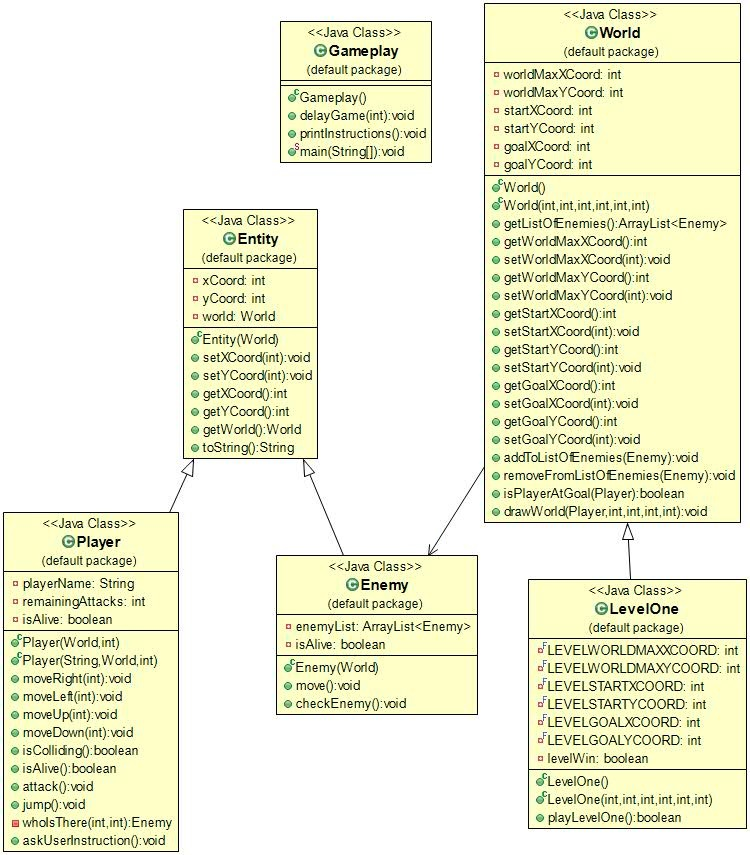
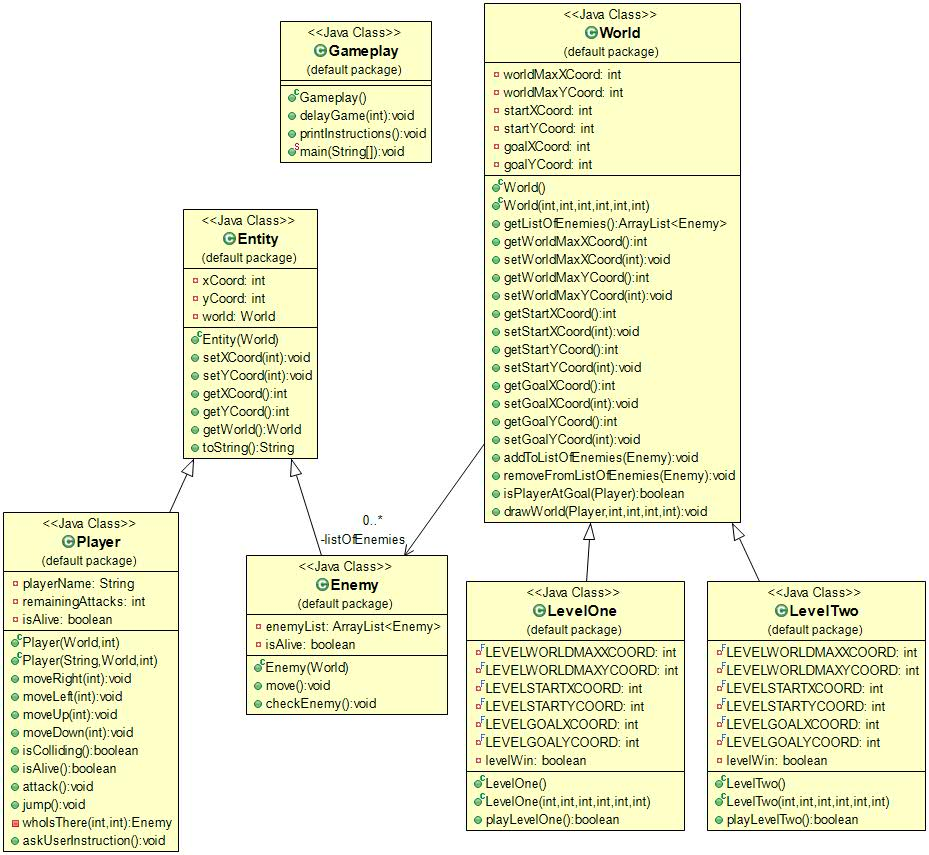
Added LevelTwo
- Added level two which is the next level of the game. It's pretty much levelOne except in a smaller sized world (with the same amount of enemies though), making it harder

diff --git a/src/LevelTwo.java b/src/LevelTwo.java
@@ -1,0 +1,81 @@
+/**
+ * Level Two of our classic platformer game.
+ * 
+ * This class contains the code needed to generate the second level.
+ * This includes level size as well as player and enemy generation.
+ * The play method allows the player to interact with the world.
+ * 
+ * The level is smaller (size) than level one but the same amount of enemies, 
+ * making it harder. 
+ * 
+ */
+
+public class LevelTwo extends World {
+
+	private final int LEVELWORLDMAXXCOORD = 10;
+	private final int LEVELWORLDMAXYCOORD = 1;
+
+	private final int LEVELSTARTXCOORD = 2;
+	private final int LEVELSTARTYCOORD = 0;
+
+	private final int LEVELGOALXCOORD = 8;
+	private final int LEVELGOALYCOORD = 0;
+
+	private boolean levelWin;
+	
+	
+	public LevelTwo() {
+	}
+
+	public LevelTwo(int worldMaxX, int worldMaxY, int playerStartX, int playerStartY, int playerFinalX, int playerFinalY) {
+		super(worldMaxX, worldMaxY, playerStartX, playerStartY, playerFinalX, playerFinalY);
+	}
+
+	
+	/**
+	 * The playLevelTwo method allows the main player to interact in the level one world.
+	 * The method draws out the world and continuously ask the player for input until
+	 * the player has won (reached the final destination) or the player has lost (been killed).
+	 * 
+	 * @return levelWin - The boolean which returns true if the level has been won, false otherwise. 
+	 */
+	public boolean playLevelTwo() {
+
+		LevelTwo level = new LevelTwo(LEVELWORLDMAXXCOORD, LEVELWORLDMAXYCOORD, LEVELSTARTXCOORD, LEVELSTARTYCOORD,
+				LEVELGOALXCOORD, LEVELGOALYCOORD);
+
+		
+		Enemy enemy1 = new Enemy(level);
+		Enemy enemy2 = new Enemy(level);
+		Enemy enemy3 = new Enemy(level);
+		
+		addToListOfEnemies(enemy1);
+		addToListOfEnemies(enemy2);
+		addToListOfEnemies(enemy3);
+		
+		Player mainPlayer = new Player(this, 5);
+
+		// The loop which "plays" the game (i.e. draws then asks for user input)
+		// Until the player dies or has reached the goal destination
+		while (mainPlayer.isAlive() && !level.isPlayerAtGoal(mainPlayer) ) {
+			super.drawWorld(mainPlayer, LEVELWORLDMAXXCOORD, LEVELWORLDMAXYCOORD, LEVELGOALXCOORD, LEVELGOALYCOORD);
+			mainPlayer.askUserInstruction();
+		}
+		
+		// After the loop for level play ends, check if player won/is still alive
+		if (mainPlayer.isAlive()){
+			levelWin = true;
+		} else {
+			levelWin = false;
+		}
+		
+		// Draw the world a final time before ending the level
+		super.drawWorld(mainPlayer, LEVELWORLDMAXXCOORD, LEVELWORLDMAXYCOORD, LEVELGOALXCOORD, LEVELGOALYCOORD);
+		
+		return levelWin;
+			
+	}
+
+}
+
+

diff --git a/src/Gameplay.java b/src/Gameplay.java
@@ -49,7 +49,8 @@ public class Gameplay {
 		Gameplay game = new Gameplay();
 
 		LevelOne levelOne = new LevelOne();
-
+		LevelTwo levelTwo = new LevelTwo();
+		
 		// Game Intro / Instructions
 		System.out.println("Welcome to The-Game-That-Does-Not-Have-a-Name-Yet! \n");
 		game.delayGame(1000);
@@ -66,7 +67,7 @@ public class Gameplay {
 
 		// Start playing level one (we only have 1 level in this demo)
 		// After playing the level, announce whether the player has won or lost.
-		if ( levelOne.playLevelOne() ) {
+		if ( levelOne.playLevelOne() && levelTwo.playLevelTwo()) {
 			System.out.print("CONGRATULATIONS! YOU HAVE WON!");
 		} else {
 			System.out.print("YOU HAVE DIED. GAME OVER");
